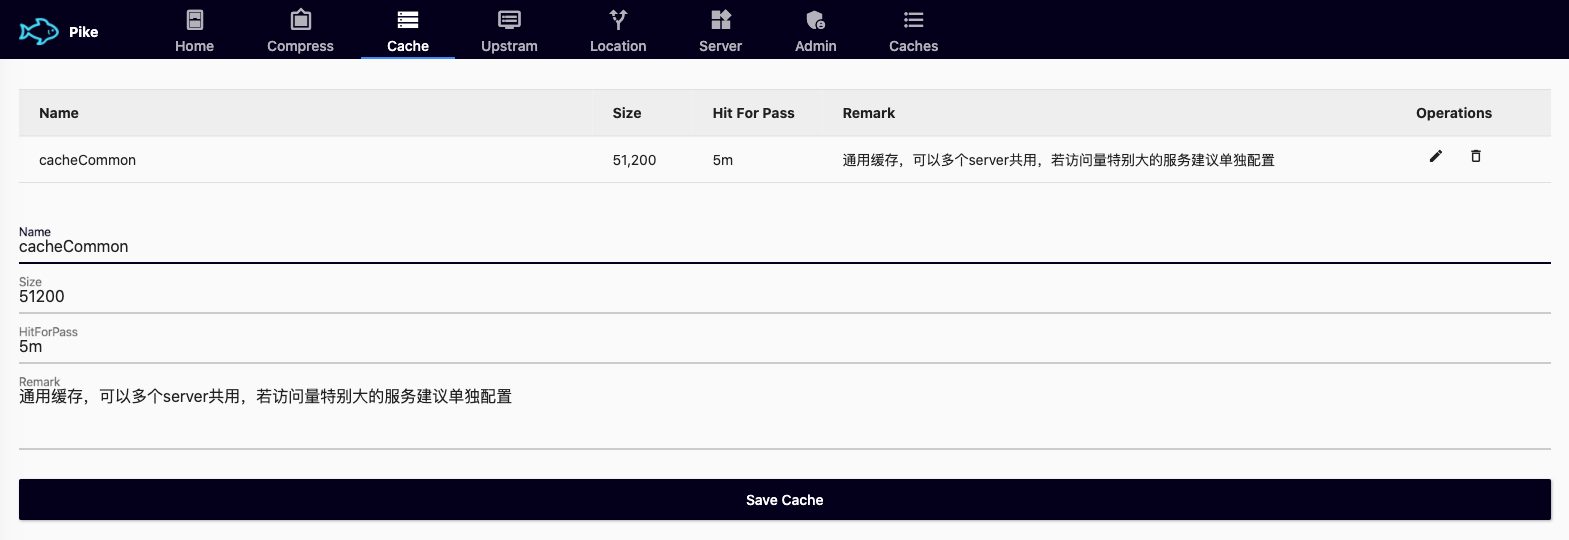
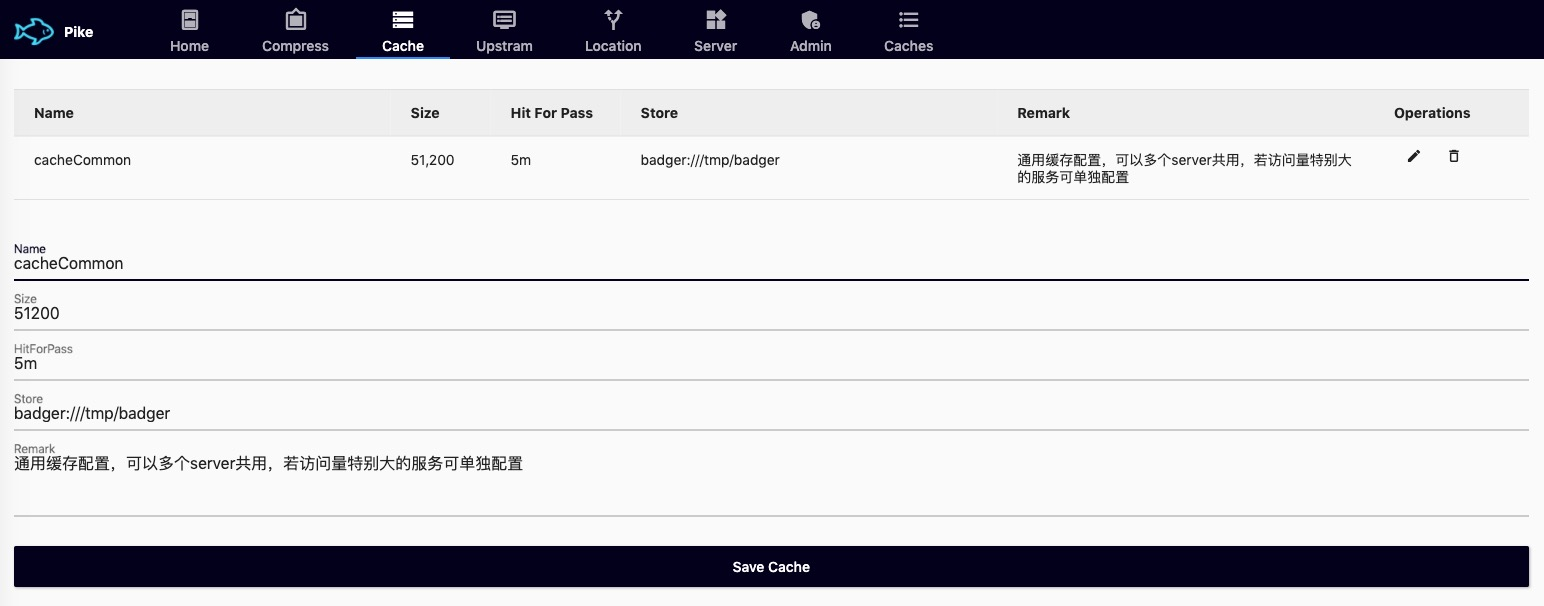
docs: update documents

diff --git a/docs/start.md b/docs/start.md
@@ -53,6 +53,7 @@ Flags:
 - `Name` 缓存配置名称，用于区分每个缓存配置，对于请求量特别大的服务，可单独使用一个缓存，其它的服务则共用一个缓存则可
 - `Size` 缓存数量大小，指定LRU缓存的最大数量，可根据服务的缓存情况以及机器内存选择较为合适的值，一般设置为51200已能满足大部分应用的需求，如果内存较少则设置为更小的值
 - `HitForPass` 设置hit for pass的缓存时长，对于不可缓存的GET、HEAD请求，为了后续快速判断请求是否hit for pass，缓存中也有保存该请求的缓存状态(hitForPass)。
+- `Store` 设置缓存持久化存储的方式，暂只支持badger，如`badger:///tmp/badger`表示将缓存保存至`/tmp/badger`目录。如果内存较为空余，可设置LRU的Size为较大的值而不设置Store。
 - `Remark` 备注
 
 为什么会有需要hit for pass的场景？考虑一下以下场景，由于产品刚好被下架处理，因此请求产品详情信息时，该接口返回了出错（http status: 400，cache control: no-cache），因此访问该产品的接口缓存为hit for pass，而后续产品上架了，接口正常响应，缓存时长为cache-control: max-age=60，此时接口应该可缓存的。而由于hit for pass未过期，因此只能等hit for pass过期后接口才变为可缓存。

diff --git a/README.md b/README.md
@@ -12,7 +12,7 @@
 - 与upstream的调用支持`gzip`，`brotli`，`lz4`，`snappy`以及`zstd`压缩，可根据与upstream的网络线路选择合适的压缩方式
 - 支持upstream检测失败时回调告警，可及时获取异常upstream信息
 - 支持自定义日志，可配置按日期与大小分割日志并压缩
-
+- LUR与持久化存储（可选）配合使用，可根据内存使用选择更小的LRU缓存并增加持久化存储的方式
 
 <p align="center">
 <img src="./docs/images/home.png"/>
